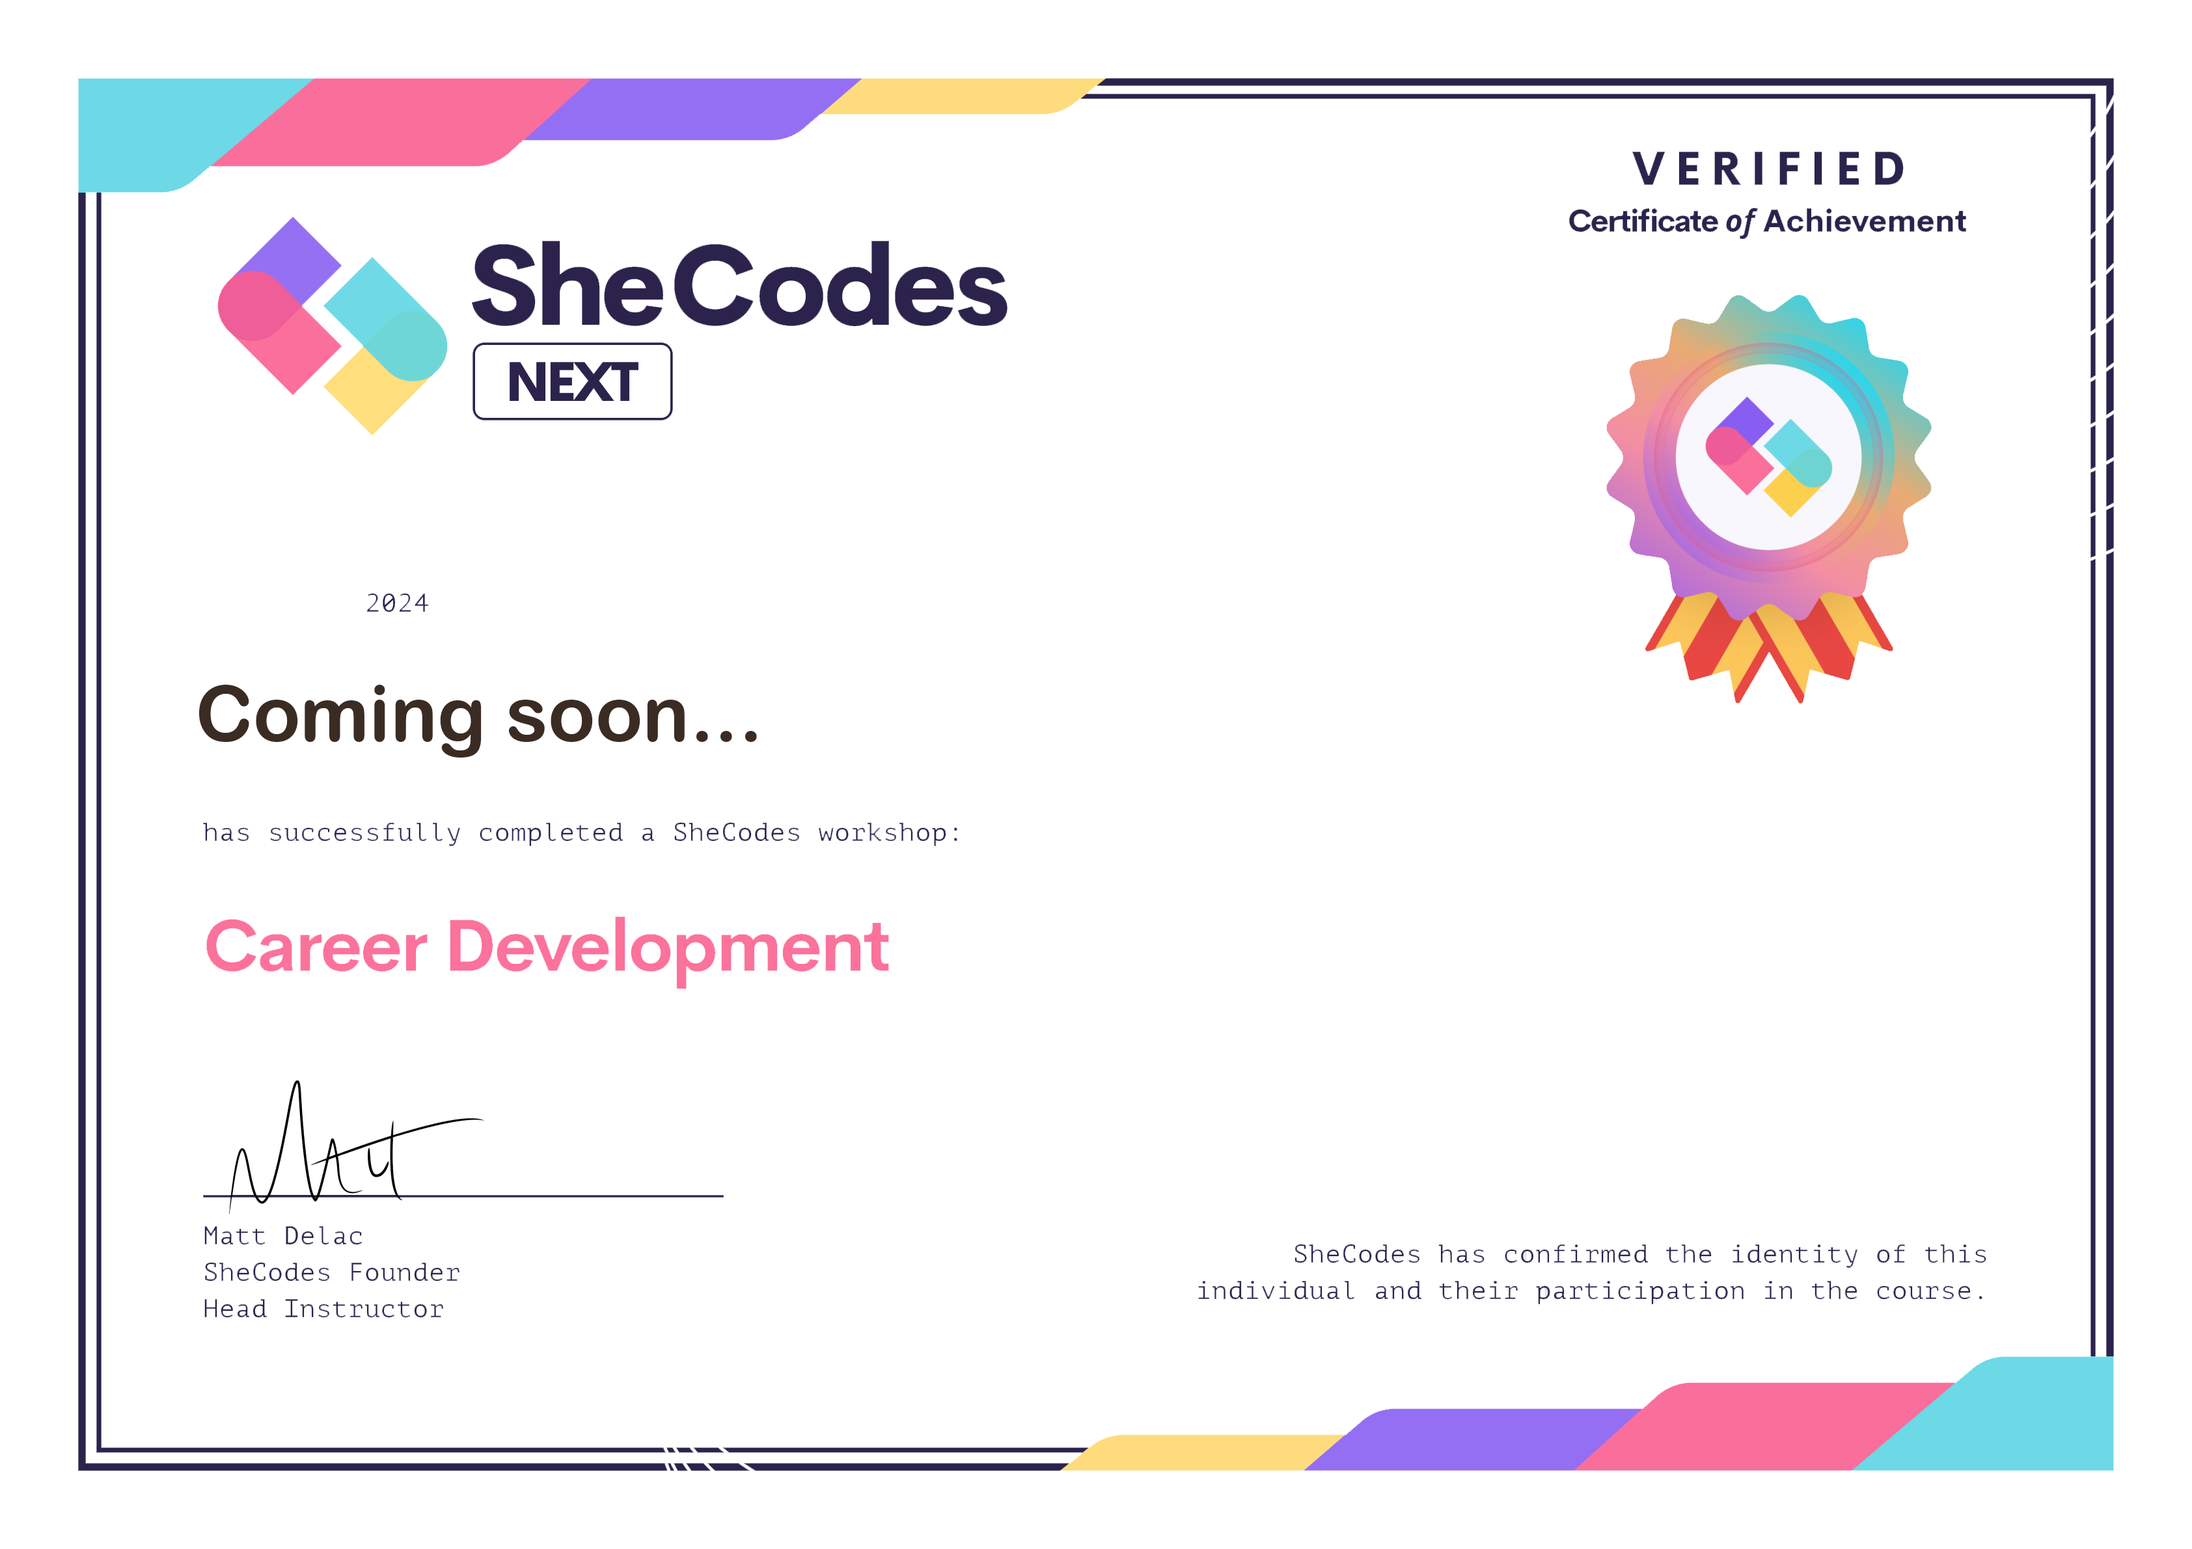
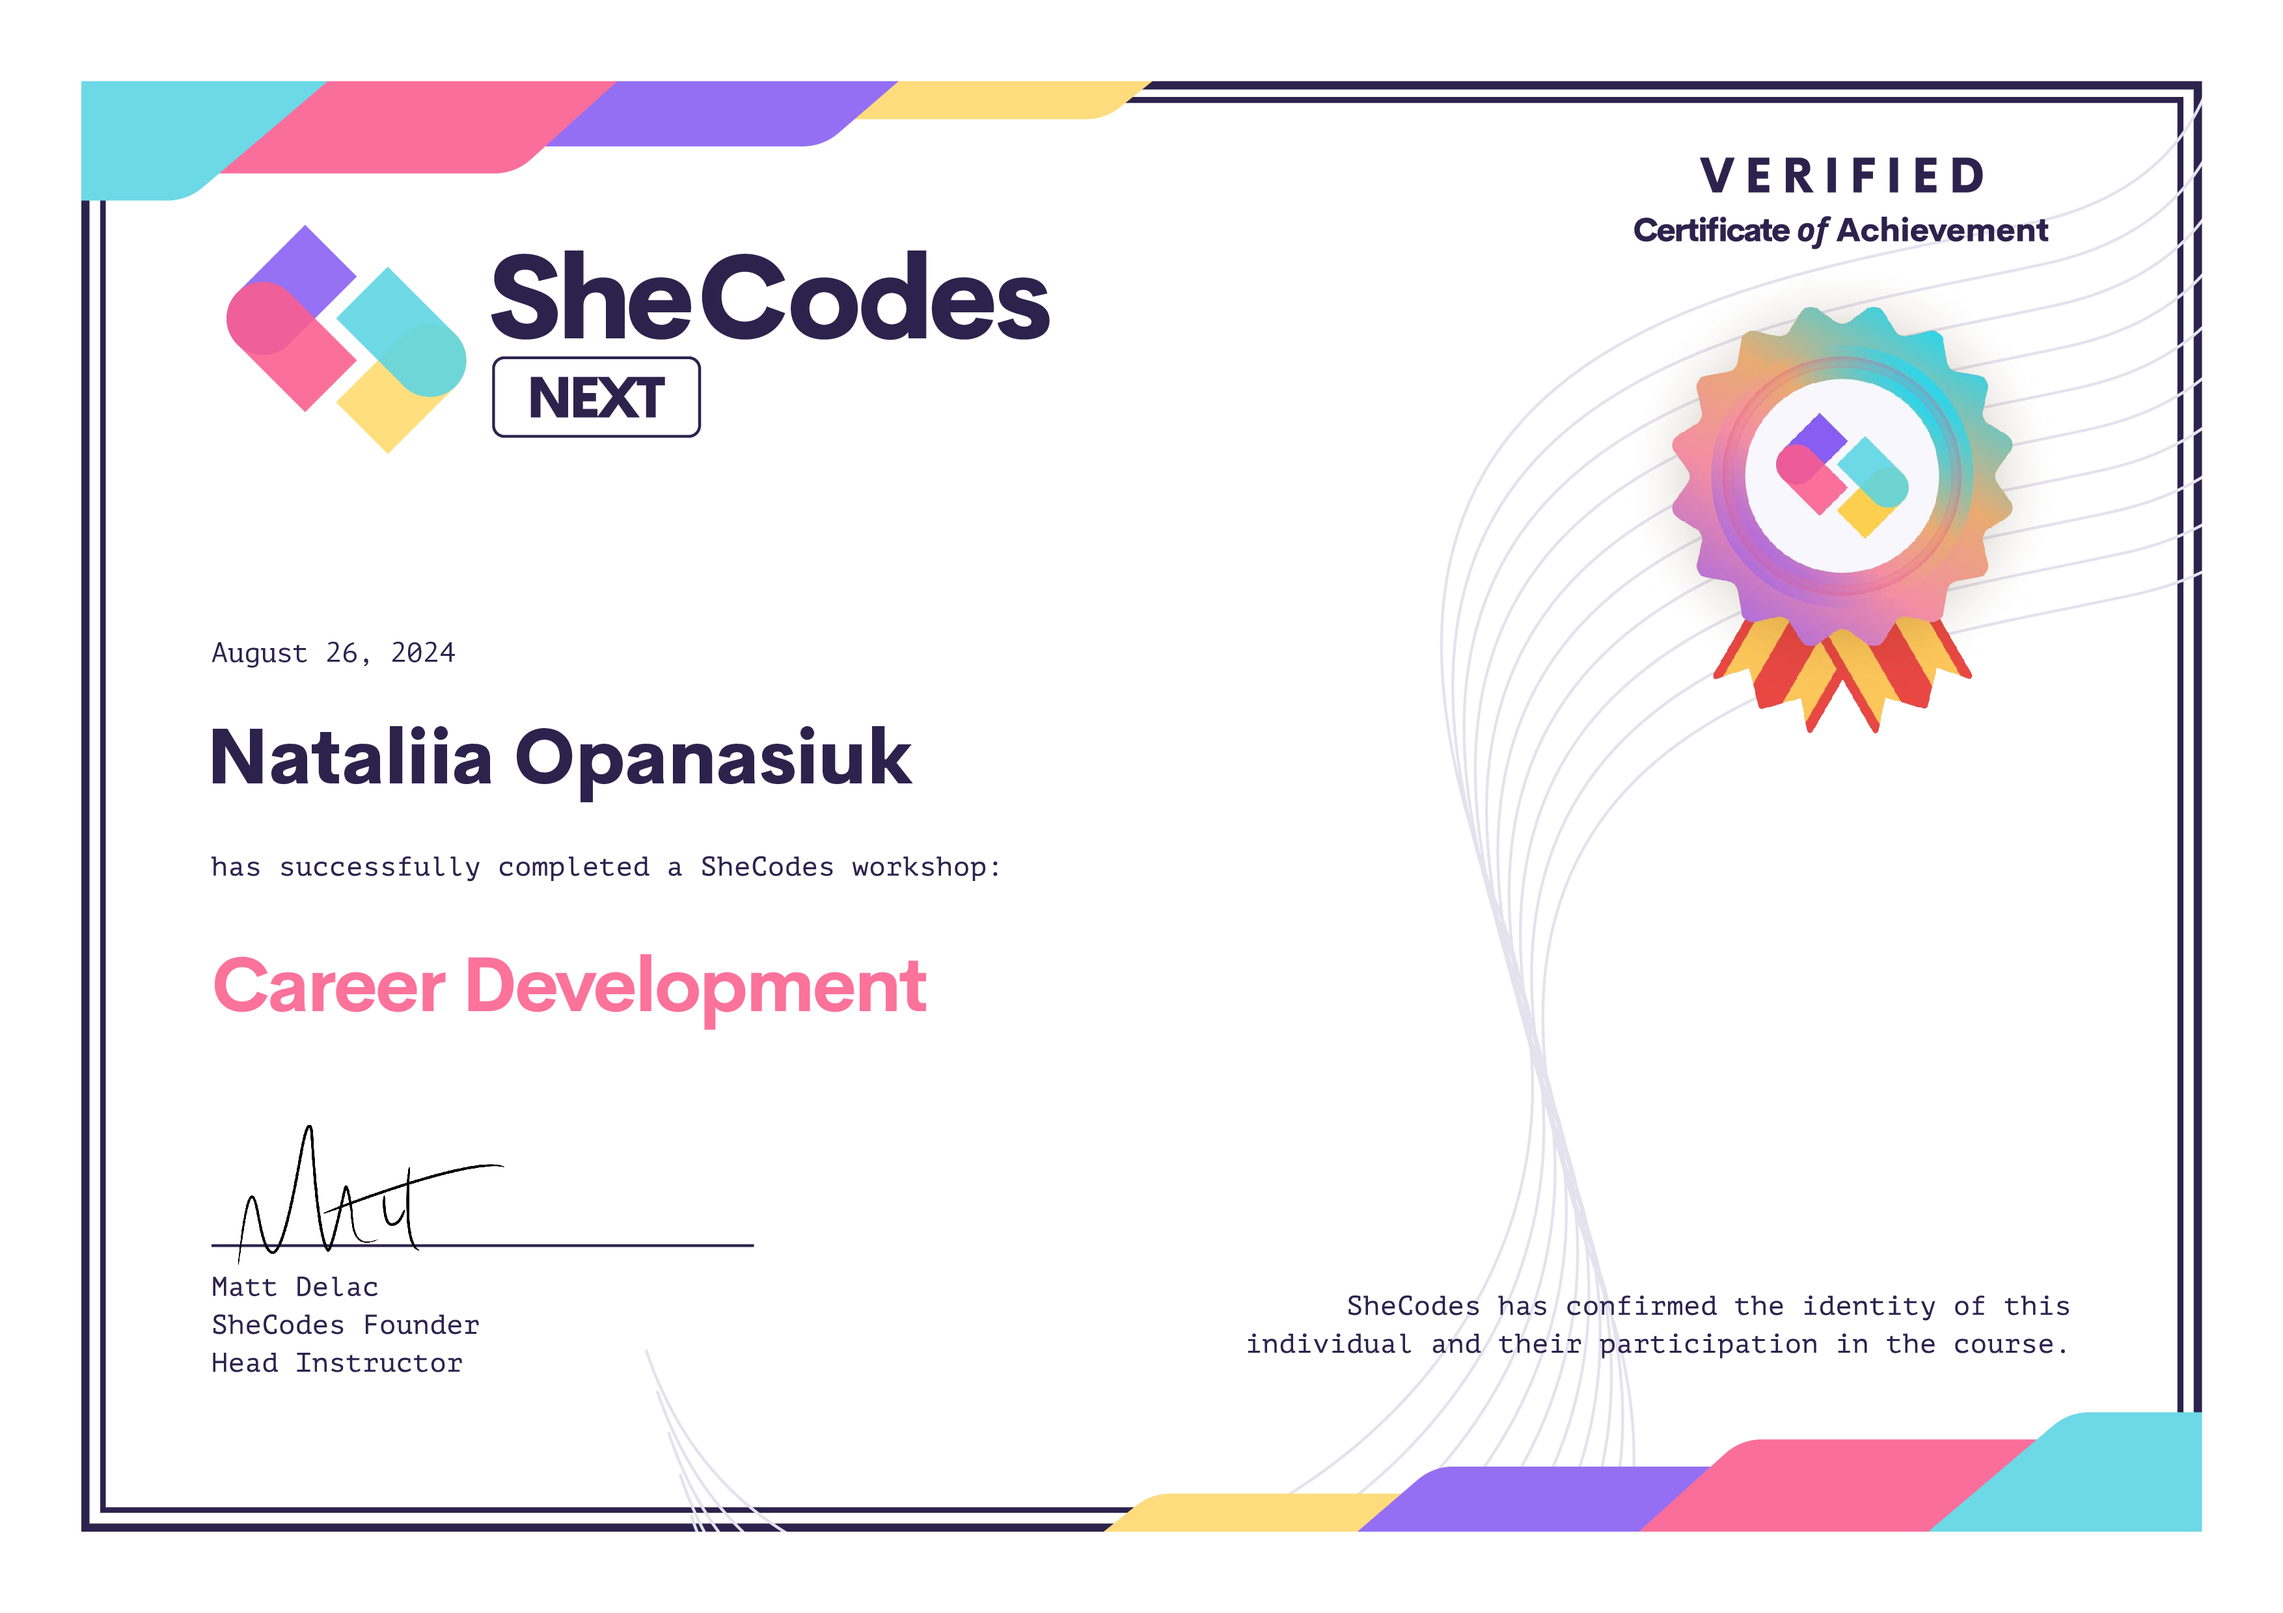
Added SheCodes Next certificate

diff --git a/about.html b/about.html
@@ -310,7 +310,7 @@ Sertificates section
               class="img-fluid border shadow-sm scale"
             />
             <br />
-            <p>SheCodes Next, 2024, Coming soon...</p>
+            <p>SheCodes Next, 2024</p>
           </div>
 
           <!-- React -->
